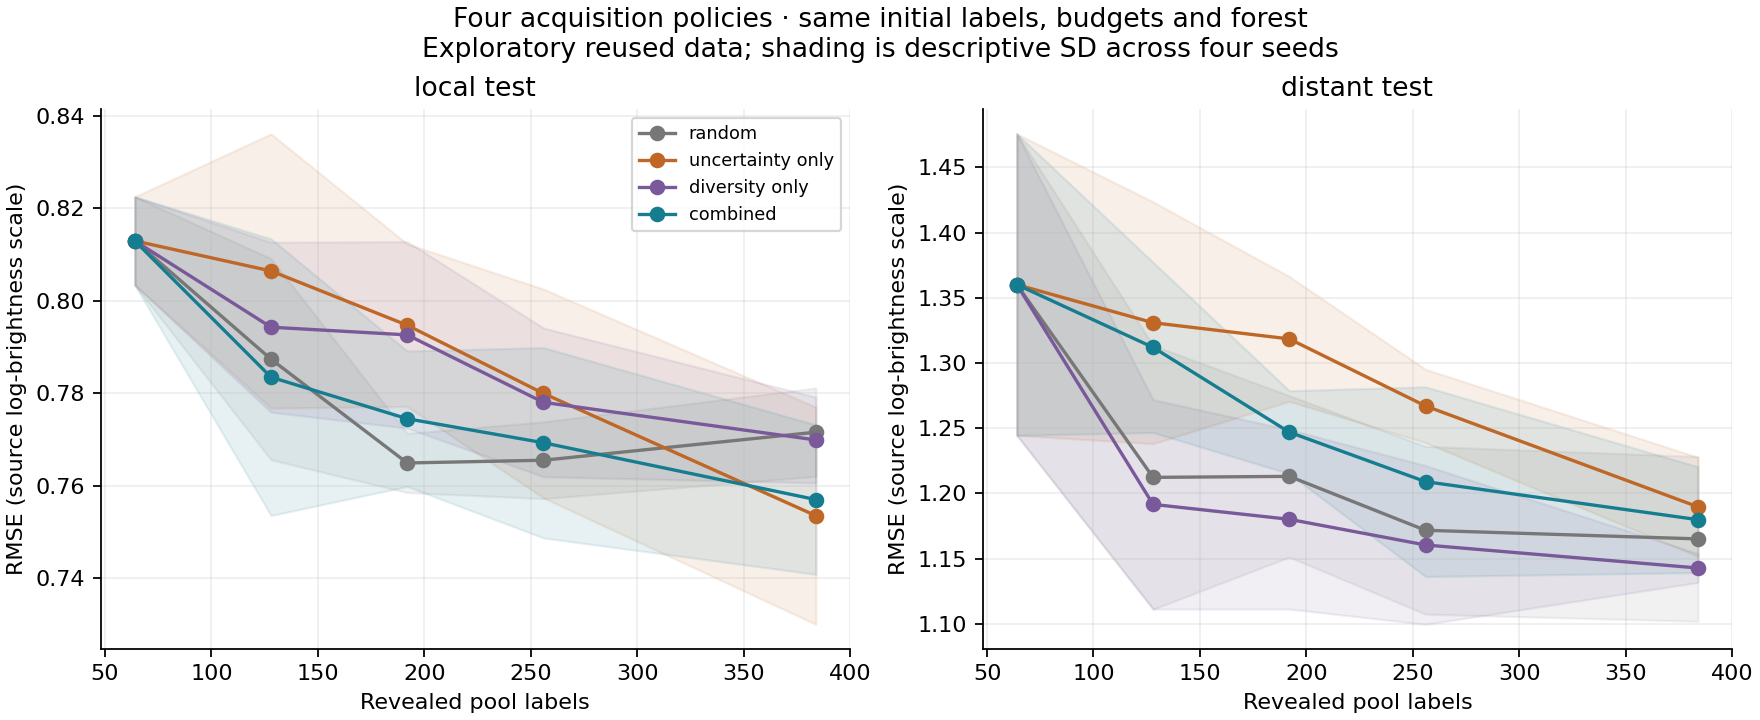
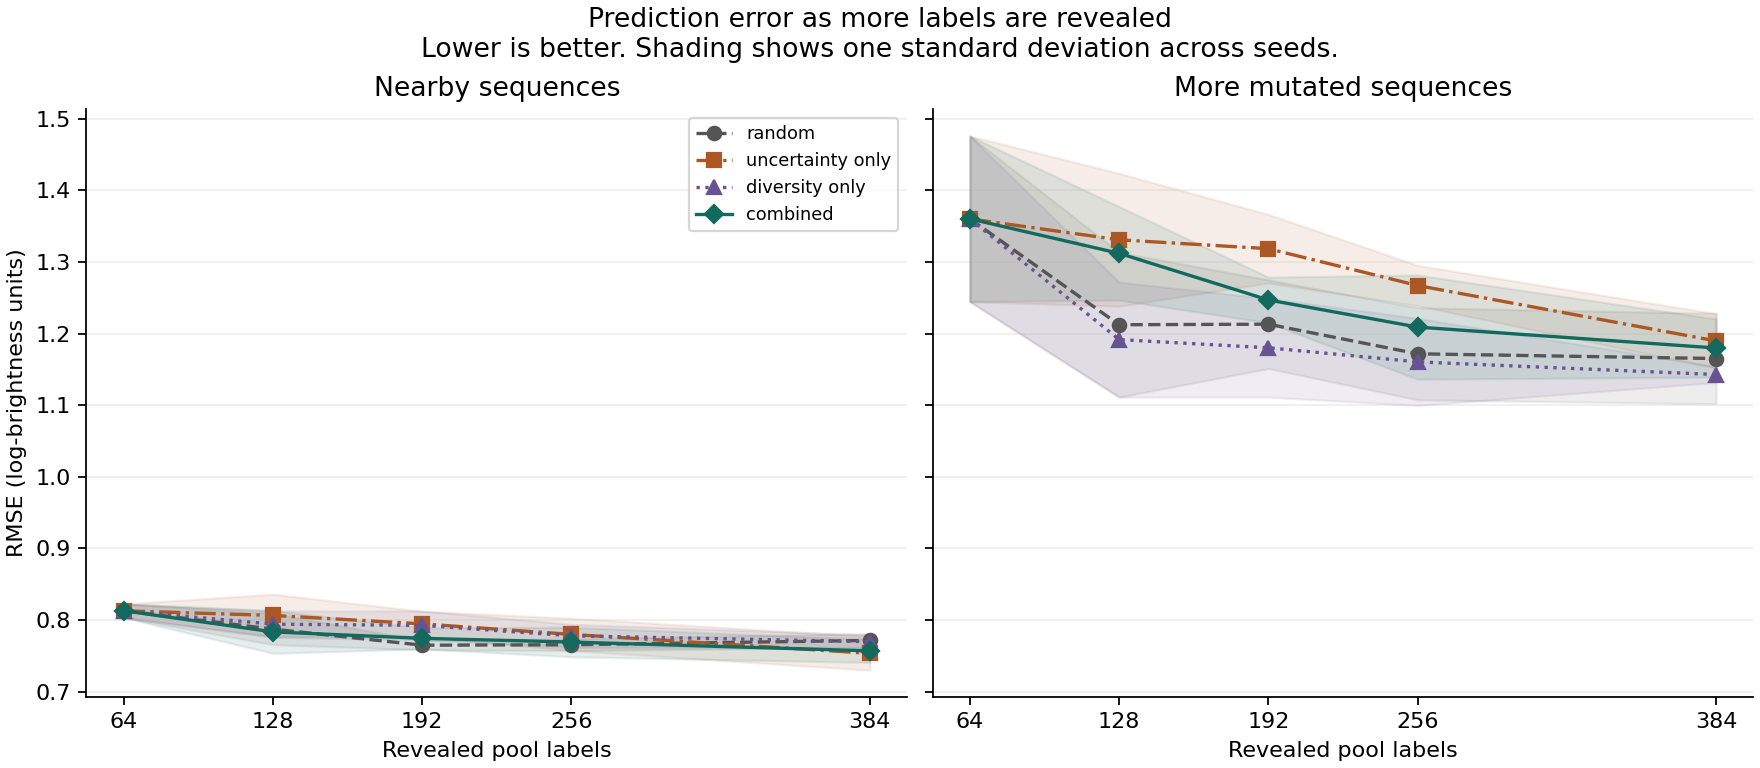
Derive ablation report conclusions from paired results

diff --git a/experiments/uncertainty_ablation/ablation.py b/experiments/uncertainty_ablation/ablation.py
@@ -126,23 +126,92 @@ def historical_checks(records,history,original_dir):
             if actual != expected: raise ValueError('Historical acquisition order mismatch')
 
 
-def figure(summary,target):
+def figure(summary, target):
     import matplotlib
     matplotlib.use('Agg')
     import matplotlib.pyplot as plt
-    colors={'random':'#777777','uncertainty_only':'#bf6726','diversity_only':'#79599a','combined':'#167d90'}
-    fig,axes=plt.subplots(1,2,figsize=(11,4.5),layout='constrained',sharex=True)
-    for ax,role in zip(axes,EVALUATIONS):
-        for policy in POLICIES:
-            rows=[r for r in summary if r['evaluation']==role and r['policy']==policy]
-            x=np.array([r['label_budget'] for r in rows]);y=np.array([r['rmse_mean'] for r in rows]);sd=np.array([r['rmse_sd_descriptive'] for r in rows])
-            ax.plot(x,y,'o-',color=colors[policy],label=policy.replace('_',' '))
-            ax.fill_between(x,y-sd,y+sd,color=colors[policy],alpha=.10)
-        ax.set(title=role.replace('_',' '),xlabel='Revealed pool labels',ylabel='RMSE (source log-brightness scale)')
-        ax.spines[['top','right']].set_visible(False);ax.grid(alpha=.2)
+
+    styles = {
+        'random': ('#555555', 'o', '--'),
+        'uncertainty_only': ('#ac5724', 's', '-.'),
+        'diversity_only': ('#675393', '^', ':'),
+        'combined': ('#12695d', 'D', '-'),
+    }
+    fig, axes = plt.subplots(1, 2, figsize=(11, 4.8), layout='constrained',
+                             sharex=True, sharey=True)
+    for ax, role in zip(axes, EVALUATIONS):
+        for policy, (color, marker, line) in styles.items():
+            rows = [r for r in summary if r['evaluation'] == role and r['policy'] == policy]
+            x = [r['label_budget'] for r in rows]
+            means = np.array([r['rmse_mean'] for r in rows])
+            sd = np.array([r['rmse_sd_descriptive'] for r in rows])
+            ax.plot(x, means, color=color, marker=marker, linestyle=line,
+                    label=policy.replace('_', ' '))
+            ax.fill_between(x, means - sd, means + sd, color=color, alpha=.10)
+        ax.set(title={'local_test': 'Nearby sequences', 'distant_test': 'More mutated sequences'}[role],
+               xlabel='Revealed pool labels', xticks=BUDGETS)
+        ax.spines[['top', 'right']].set_visible(False)
+        ax.grid(axis='y', alpha=.2)
+    axes[0].set_ylabel('RMSE (log-brightness units)')
     axes[0].legend(fontsize=8)
-    fig.suptitle('Four acquisition policies · same initial labels, budgets and forest\nExploratory reused data; shading is descriptive SD across four seeds',fontsize=12)
-    fig.savefig(target,dpi=160);plt.close(fig)
+    fig.suptitle('Prediction error as more labels are revealed\n'
+                 'Lower is better. Shading shows one standard deviation across seeds.', fontsize=12)
+    fig.savefig(target, dpi=160)
+    plt.close(fig)
+
+
+def contrast_description(contrasts):
+    values = [row['distant_minus_local_benefit'] for row in contrasts]
+    positive = sum(value > 0 for value in values)
+    negative = sum(value < 0 for value in values)
+    tied = len(values) - positive - negative
+    mean = sum(values) / len(values)
+    direction = ('larger on the distant set' if mean > 0 else
+                 'larger on the local set' if mean < 0 else 'equal on the two sets')
+    return (f'The mean benefit of combined selection was {direction}. '
+            f'The distant-minus-local contrast averaged **{mean:+.4f}** RMSE units. '
+            f'Across {len(values)} seeds the counts were {positive} positive, '
+            f'{negative} negative, and {tied} tied.')
+
+
+def write_report(output, summary, contrasts):
+    final = [row for row in summary if row['label_budget'] == BUDGETS[-1]]
+    report = [
+        '# Does combined selection help more at distance?', '',
+        'The original prediction was that combined selection would help most on more mutated sequences. '
+        f'At {BUDGETS[-1]} revealed labels, each policy was evaluated on the same '
+        'historical measurements. Lower root mean squared error (RMSE) means '
+        'the predictions were closer to the recorded log-brightness values.', '',
+        '| Evaluation | Policy | Mean RMSE | SD across seeds |',
+        '| --- | --- | ---: | ---: |',
+    ]
+    for row in final:
+        report.append(f"| {row['evaluation']} | {row['policy']} | {row['rmse_mean']:.4f} | {row['rmse_sd_descriptive']:.4f} |")
+    distant = [row for row in final if row['evaluation'] == 'distant_test']
+    minimum = min(row['rmse_mean'] for row in distant)
+    best = ', '.join(row['policy'].replace('_', ' ') for row in distant if row['rmse_mean'] == minimum)
+    report.extend(['', f'**Lowest distant-set mean RMSE ({minimum:.4f})** · {best}.', '',
+                   '## Where did combined selection help?', '',
+                   'For each seed, subtract the combined policy’s error from random sampling’s error. '
+                   'A positive benefit means the combined policy predicted more accurately.', '',
+                   contrast_description(contrasts), '',
+                   '| Seed | Local benefit | Distant benefit | Distant minus local |',
+                   '| ---: | ---: | ---: | ---: |'])
+    for row in contrasts:
+        report.append(f"| {row['seed']} | {row['local_benefit']:+.4f} | {row['distant_benefit']:+.4f} | {row['distant_minus_local_benefit']:+.4f} |")
+    report.extend(['', 'Each seed reuses the same evaluation measurements. The differences describe this historical benchmark.', '',
+                   '## Does tree disagreement track error?', '',
+                   'Each cell averages the final-budget Spearman correlation across seeds. '
+                   'Positive values mean that cases with greater disagreement between trees tended to have larger errors.', '',
+                   '| Policy | Nearby sequences | More mutated sequences |',
+                   '| --- | ---: | ---: |'])
+    for policy in POLICIES:
+        values = {r['evaluation']: r['spread_error_spearman_mean'] for r in final if r['policy'] == policy}
+        report.append(f"| {policy} | {values['local_test']:.4f} | {values['distant_test']:.4f} |")
+    report.extend(['', 'The correlations describe how errors rank within each set. They do not measure calibrated interval coverage.', '', '![Mean prediction error at each budget for nearby and more mutated sequences](learning_curves.png)', '',
+                   'The models use composition and mutation count. The distant set extends beyond the pool’s mutation-count range. '
+                   'The four policies share their initial labels and budgets within each seed.'])
+    (output / 'report.md').write_text('\n'.join(report) + '\n', encoding='utf-8')
 
 
 def run(output=HERE/'results'):
@@ -203,32 +272,7 @@ def run(output=HERE/'results'):
               'policies':list(POLICIES),'budgets':list(BUDGETS),'seeds':list(SEEDS),'forest':make_model(0).get_params(),
               'model_seed_rule':'seed + budget','historical_random_combined_checks_passed':True,
               'code_sha256':sha256(__file__),'versions':{p:importlib.metadata.version(p) for p in ('numpy','scipy','scikit-learn','matplotlib')}}
-    (output/'run_metadata.json').write_text(json.dumps(metadata,indent=2,allow_nan=False)+'\n')
-    report=['# GFP policy ablation: learning checkpoint','',
-            'Prediction recorded before this ablation: **combined selection would help most on more-distant variants**. No reason was supplied. These are reused historical outcomes, not a new blind holdout.','',
-            '| Evaluation | Policy | Final mean RMSE | Descriptive SD |','| --- | --- | ---: | ---: |']
-    for r in summary:
-        if r['label_budget']==BUDGETS[-1]:report.append(f"| {r['evaluation']} | {r['policy']} | {r['rmse_mean']:.4f} | {r['rmse_sd_descriptive']:.4f} |")
-    contrast=float(np.mean([r['distant_minus_local_benefit'] for r in contrasts]))
-    distant=[r for r in summary if r['label_budget']==BUDGETS[-1] and r['evaluation']=='distant_test']
-    best=min(distant,key=lambda r:r['rmse_mean'])['policy']
-    report+=['',f'The lowest distant-set mean RMSE was **{best}**. The mean distant-minus-local combined benefit was **{contrast:+.4f}** RMSE units; positive would favor the predicted distance pattern.',
-             '', 'This fixed exploratory extension does not support the recorded combined-at-distance prediction. The result is specific to these outcomes, seeds and model; it is not a general ranking of acquisition algorithms.',
-             '', '| Seed | Combined benefit locally | Combined benefit distantly | Distant minus local benefit |',
-             '| ---: | ---: | ---: | ---: |']
-    report += [f"| {r['seed']} | {r['local_benefit']:+.4f} | {r['distant_benefit']:+.4f} | {r['distant_minus_local_benefit']:+.4f} |" for r in contrasts]
-    report += ['', 'Benefit means random RMSE minus combined RMSE; positive is better for combined. The contrast is positive in two seeds and negative in two. Four seeds share the same evaluation observations; these are descriptive comparisons, not a significance test.',
-               '', '## Does tree disagreement track error?', '',
-               '| Policy | Local mean rank association | Distant mean rank association |',
-               '| --- | ---: | ---: |']
-    for policy in POLICIES:
-        values={r['evaluation']:r['spread_error_spearman_mean'] for r in summary if r['policy']==policy and r['label_budget']==BUDGETS[-1]}
-        report.append(f"| {policy} | {values['local_test']:.4f} | {values['distant_test']:.4f} |")
-    report += ['', 'Each value averages four separately computed Spearman associations between tree spread and absolute prediction error at the final budget. The observations are reused across seeds. These are heuristic association diagnostics, not calibration, error bars, or confidence-interval coverage.',
-               '', 'Spread/error association is much weaker on this distant set. This is consistent with disagreement being a less useful warning of error there, but does not prove why the combined acquisition policy lost. Uncertainty screening can exclude candidates that diversity-only would consider; its causal contribution would need a further fixed comparison.',
-               '', '![Learning curves](learning_curves.png)', '',
-               'The existing random and combined acquisition orders and metrics were reproduced. Uncertainty-only removes the diversity step; diversity-only removes uncertainty screening. All models still discard residue position, and the distant set extends beyond the pool’s mutation-count range. Neither this ablation nor its reused evaluation labels establish prospective or protein-family generalization.']
-    (output/'report.md').write_text('\n'.join(report)+'\n')
+    write_report(output, summary, contrasts)
     metadata['outputs_sha256']={p.name:sha256(p) for p in output.iterdir() if p.is_file() and p.name!='run_metadata.json'}
     (output/'run_metadata.json').write_text(json.dumps(metadata,indent=2,allow_nan=False)+'\n')
     if any(sha256(ROOT/p)!=value for p,value in protected.items()):raise ValueError('Original benchmark files changed during run')

diff --git a/experiments/uncertainty_ablation/tests/test_ablation.py b/experiments/uncertainty_ablation/tests/test_ablation.py
@@ -4,7 +4,7 @@ from unittest.mock import patch
 import numpy as np
 from sklearn.ensemble import RandomForestRegressor
 
-from experiments.uncertainty_ablation.ablation import POLICIES, choose, rank_association, simulate
+from experiments.uncertainty_ablation.ablation import POLICIES, choose, contrast_description, rank_association, simulate
 from gfp_active_learning.benchmark import choose_acquisition
 from gfp_active_learning.data import descriptors
 
@@ -69,6 +69,17 @@ class AblationTests(unittest.TestCase):
             revealed={h['pool_index'] for h in baseline[1]}
             for i in set(range(len(y)))-revealed:changed[i]=12345+i
             self.assertEqual(baseline,self.run_small(p,labels=changed))
+
+    def test_contrast_description_tracks_the_measured_directions(self):
+        for values, direction, counts in [
+            ([1, 2], "larger on the distant set", "2 positive, 0 negative, and 0 tied"),
+            ([-1, 1, 0], "equal on the two sets", "1 positive, 1 negative, and 1 tied"),
+            ([-3, 1, -2, 1], "larger on the local set", "2 positive, 2 negative, and 0 tied"),
+        ]:
+            with self.subTest(values=values):
+                text = contrast_description([{"distant_minus_local_benefit": x} for x in values])
+                self.assertIn(direction, text)
+                self.assertIn(counts, text)
 
     def test_constant_association_is_undefined(self):
         self.assertIsNone(rank_association([1,1,1],[1,2,3]))

diff --git a/experiments/uncertainty_ablation/results/report.md b/experiments/uncertainty_ablation/results/report.md
@@ -1,8 +1,8 @@
-# GFP policy ablation: learning checkpoint
+# Does combined selection help more at distance?
 
-Prediction recorded before this ablation: **combined selection would help most on more-distant variants**. No reason was supplied. These are reused historical outcomes, not a new blind holdout.
+The original prediction was that combined selection would help most on more mutated sequences. At 384 revealed labels, each policy was evaluated on the same historical measurements. Lower root mean squared error (RMSE) means the predictions were closer to the recorded log-brightness values.
 
-| Evaluation | Policy | Final mean RMSE | Descriptive SD |
+| Evaluation | Policy | Mean RMSE | SD across seeds |
 | --- | --- | ---: | ---: |
 | local_test | random | 0.7715 | 0.0096 |
 | local_test | uncertainty_only | 0.7535 | 0.0235 |
@@ -13,32 +13,36 @@ Prediction recorded before this ablation: **combined selection would help most o
 | distant_test | diversity_only | 1.1428 | 0.0111 |
 | distant_test | combined | 1.1799 | 0.0406 |
 
-The lowest distant-set mean RMSE was **diversity_only**. The mean distant-minus-local combined benefit was **-0.0293** RMSE units; positive would favor the predicted distance pattern.
+**Lowest distant-set mean RMSE (1.1428)** · diversity only.
 
-This fixed exploratory extension does not support the recorded combined-at-distance prediction. The result is specific to these outcomes, seeds and model; it is not a general ranking of acquisition algorithms.
+## Where did combined selection help?
 
-| Seed | Combined benefit locally | Combined benefit distantly | Distant minus local benefit |
+For each seed, subtract the combined policy’s error from random sampling’s error. A positive benefit means the combined policy predicted more accurately.
+
+The mean benefit of combined selection was larger on the local set. The distant-minus-local contrast averaged **-0.0293** RMSE units. Across 4 seeds the counts were 2 positive, 2 negative, and 0 tied.
+
+| Seed | Local benefit | Distant benefit | Distant minus local |
 | ---: | ---: | ---: | ---: |
 | 11 | +0.0317 | +0.0367 | +0.0050 |
 | 29 | +0.0067 | -0.0719 | -0.0786 |
 | 47 | +0.0212 | +0.0748 | +0.0536 |
 | 83 | -0.0012 | -0.0985 | -0.0973 |
 
-Benefit means random RMSE minus combined RMSE; positive is better for combined. The contrast is positive in two seeds and negative in two. Four seeds share the same evaluation observations; these are descriptive comparisons, not a significance test.
+Each seed reuses the same evaluation measurements. The differences describe this historical benchmark.
 
 ## Does tree disagreement track error?
 
-| Policy | Local mean rank association | Distant mean rank association |
+Each cell averages the final-budget Spearman correlation across seeds. Positive values mean that cases with greater disagreement between trees tended to have larger errors.
+
+| Policy | Nearby sequences | More mutated sequences |
 | --- | ---: | ---: |
 | random | 0.5609 | 0.1138 |
 | uncertainty_only | 0.5682 | 0.1048 |
 | diversity_only | 0.5924 | 0.1219 |
 | combined | 0.5496 | 0.0688 |
 
-Each value averages four separately computed Spearman associations between tree spread and absolute prediction error at the final budget. The observations are reused across seeds. These are heuristic association diagnostics, not calibration, error bars, or confidence-interval coverage.
+The correlations describe how errors rank within each set. They do not measure calibrated interval coverage.
 
-Spread/error association is much weaker on this distant set. This is consistent with disagreement being a less useful warning of error there, but does not prove why the combined acquisition policy lost. Uncertainty screening can exclude candidates that diversity-only would consider; its causal contribution would need a further fixed comparison.
+![Mean prediction error at each budget for nearby and more mutated sequences](learning_curves.png)
 
-![Learning curves](learning_curves.png)
-
-The existing random and combined acquisition orders and metrics were reproduced. Uncertainty-only removes the diversity step; diversity-only removes uncertainty screening. All models still discard residue position, and the distant set extends beyond the pool’s mutation-count range. Neither this ablation nor its reused evaluation labels establish prospective or protein-family generalization.
+The models use composition and mutation count. The distant set extends beyond the pool’s mutation-count range. The four policies share their initial labels and budgets within each seed.

diff --git a/experiments/uncertainty_ablation/README.md b/experiments/uncertainty_ablation/README.md
@@ -45,6 +45,8 @@ Tree disagreement (the spread of individual tree predictions) had substantially 
 
 One plausible follow-up is to inspect whether the uncertainty shortlist excludes candidates that the full-pool diversity rule finds useful. The present result does not prove that mechanism. The model also discards residue position and cannot extrapolate the mutation-count feature beyond the pool range. The scope stays one historical GFP subset, with related sequences and already observed labels.
 
+The two panels share an error scale. Each policy has a distinct line and marker, and the bands span one standard deviation across the four seeds.
+
 ![Four-policy learning curves](results/learning_curves.png)
 
 ## Reproduce and inspect
@@ -60,8 +62,10 @@ The explicit output directory keeps this rerun separate from the recorded ablati
 
 The [full report](results/report.md) includes paired seeds and uncertainty/error diagnostics. [Learning curves](results/learning_curves.csv) preserve every seed/budget/policy result; [query history](results/query_history.csv) preserves all 6,144 selected record IDs and revealed labels. [Acquisition overlap](results/acquisition_overlap.csv), [paired differences](results/paired_final.csv), and the [distance contrast](results/distance_benefit_contrast.csv) make the comparisons reconstructable. [Final predictions](results/final_predictions.csv.gz) contain 19,200 evaluation predictions, tree spreads and absolute errors. [Run metadata](results/run_metadata.json) records the fixed plan, split fingerprints, model settings and hashes.
 
-Seven focused tests check component isolation, shared starts, historical selectors, and independence from evaluation/unrevealed outcomes. The full run also verifies that original random/combined acquisition orders and scores reproduce, and that the [original file fingerprints](baseline_files.json) remain unchanged.
+The focused tests check component isolation, shared starts, historical selectors, independence from evaluation/unrevealed outcomes, and the direction counts in the report. The full run also verifies that original random/combined acquisition orders and scores reproduce, and that the [original file fingerprints](baseline_files.json) remain unchanged.
 
 The [assumptions](../../docs/assumptions.md) explain the fixed budgets, model, shortlist and inference limits. The [glossary](../../docs/glossary.md) defines the remaining technical terms. The date in the frozen plan is the host date (21 October); this editorial review uses the user-local date (20 October). Neither date changes the plan-before-run ordering recorded in the experiment.
 
 This experiment reuses the [original data attribution](../../DATA_LICENSE.md), [measurement background](../../docs/biology-and-concepts.md) and [model limitations](../../docs/methods.md). No new sequences, assays, calibrated uncertainty, or model tuning were introduced.
+
+The saved report and chart were redrawn from the recorded summary and contrast tables. In the run metadata, `code_sha256` identifies the original calculation and `render_code_sha256` identifies the code that redrew these two files.

diff --git a/README.md b/README.md
@@ -1,8 +1,6 @@
 # GFP active learning
 
-GFP means green fluorescent protein, a protein used as a light-emitting biological reporter.
-
-**Can a model choose which existing brightness measurements to reveal next and learn more efficiently than random sampling?** This small, reproducible benchmark tests that question on two evaluation sets. In the included run, the selection heuristic slightly reduced average error on nearby sequences but increased it on more mutated sequences.
+**Which past measurements help predict the brightness of green fluorescent protein (GFP)?** This benchmark reveals historical labels one batch at a time and measures prediction error on two sets of held-out sequences. In the included run, the selection heuristic slightly reduced average error on nearby sequences but increased it on more mutated sequences.
 
 ## Why this project
 
